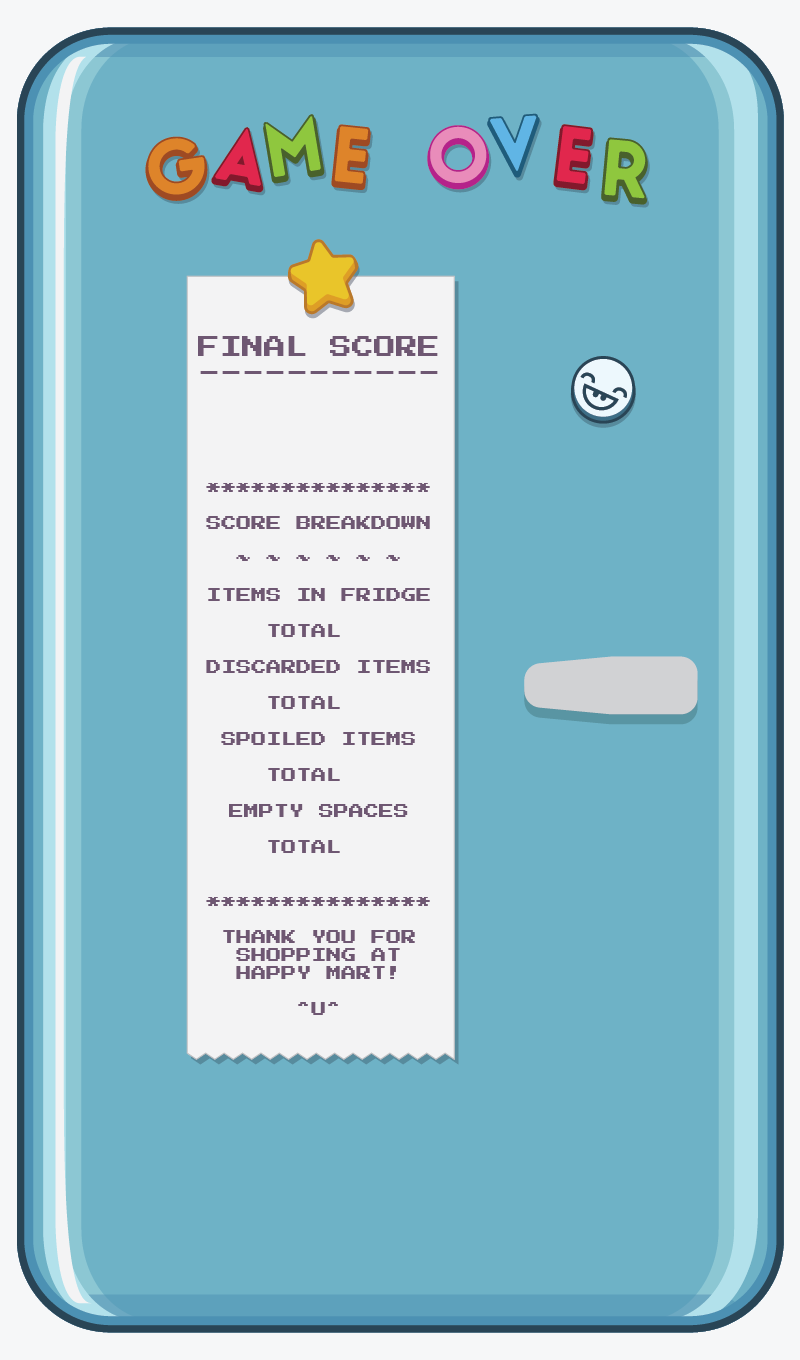
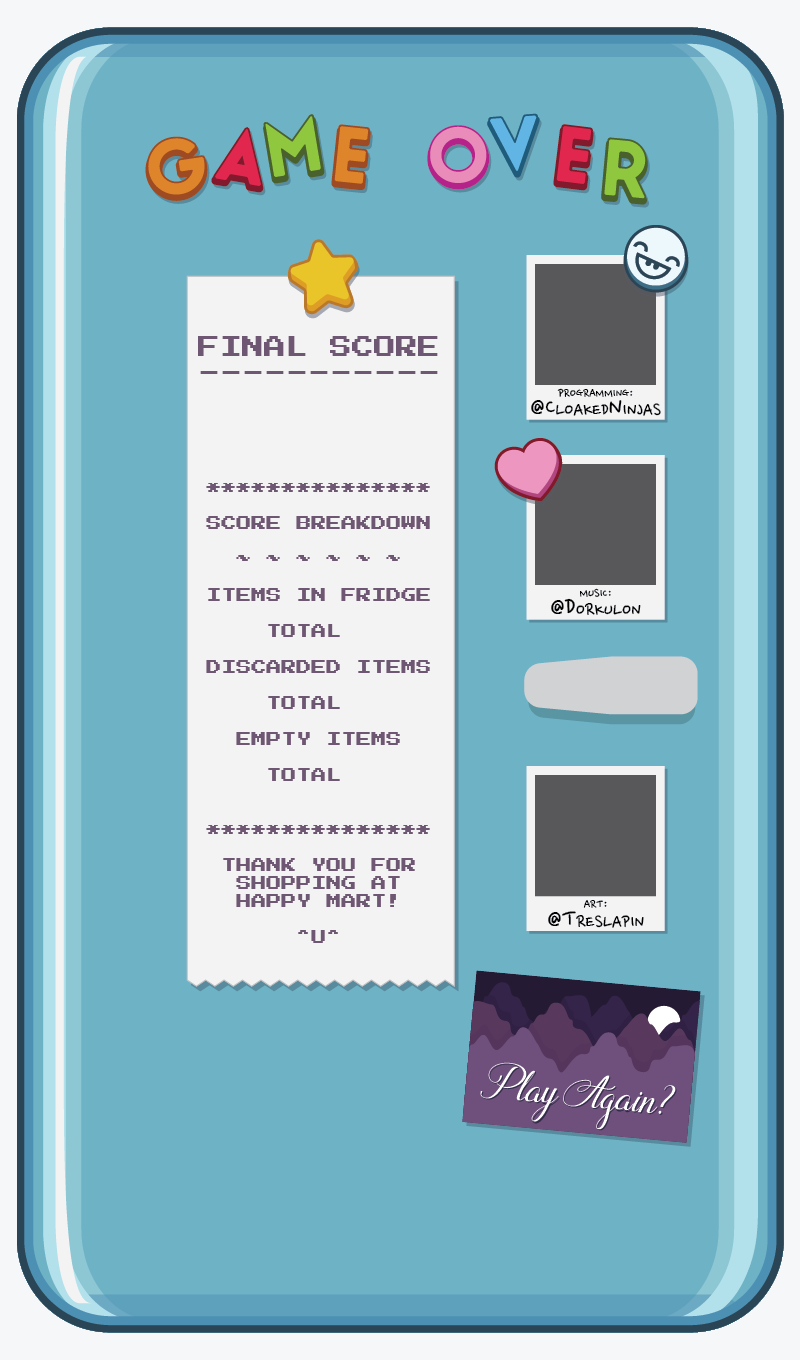
Music!

diff --git a/src/scripts/state/scores.ts b/src/scripts/state/scores.ts
@@ -1,5 +1,7 @@
 module LD43.State {
   export class Scores extends Phaser.State {
+    game: LD43.Game;
+
     create() {
       this.add.sprite(0, 0, 'end_screen');
 
@@ -32,7 +34,7 @@ module LD43.State {
       text = this.game.add.text(scoreX, 707, '5678', fontStyle);
       text.anchor.set(0.5);
 
-      // spoiled
+      // empty
 
       text = this.game.add.text(qtyX, 758, '1234', fontStyle);
       text.anchor.set(0.5);
@@ -40,14 +42,7 @@ module LD43.State {
       text = this.game.add.text(scoreX, 778, '5678', fontStyle);
       text.anchor.set(0.5);
 
-
-      // empty
-
-      text = this.game.add.text(qtyX, 830, '1234', fontStyle);
-      text.anchor.set(0.5);
-
-      text = this.game.add.text(scoreX, 850, '5678', fontStyle);
-      text.anchor.set(0.5);
+      this.game.soundManager.playMusic('end');
     }
   }
 }

diff --git a/src/scripts/lib/sound-manager.ts b/src/scripts/lib/sound-manager.ts
@@ -8,7 +8,9 @@ module LD43.Lib {
       this.game = game;
 
       this.musicTracks = {
-        'title': new Phaser.Sound(game, 'title', 1, true)
+        'title': new Phaser.Sound(game, 'snackrifice-title', 1, true),
+        'game': new Phaser.Sound(game, 'snackrifice', 1, true),
+        'end': new Phaser.Sound(game, 'snackrifice-end', 1, false),
       };
     }
 
@@ -28,6 +30,8 @@ module LD43.Lib {
       } else {
         newTrack.play();
       }
+
+      this.currentTrack = newTrack;
     }
   }
 }

diff --git a/src/scripts/state/title.ts b/src/scripts/state/title.ts
@@ -1,6 +1,6 @@
 module LD43.State {
   export class Title extends Phaser.State {
-
+    game: LD43.Game;
     logo: any;
     bg: Phaser.Sprite;
     arrow: Phaser.Sprite;
@@ -23,6 +23,8 @@ module LD43.State {
       }, 600, Phaser.Easing.Sinusoidal.Out, true, 0, Infinity, true);
 
       this.logo.bringToTop();
+
+      this.game.soundManager.playMusic('title');
     }
 
     shutdown() {

diff --git a/src/scripts/state/game.ts b/src/scripts/state/game.ts
@@ -167,7 +167,7 @@ module LD43.State {
       this.input.addMoveCallback(this.onPointerMove, this);
       this.input.onDown.add(this.onInputDown, this);
 
-      //game.soundManager.playMusic('snackrifice');
+      game.soundManager.playMusic('game');
 
       // TODO - remove
       window['g'] = this;
